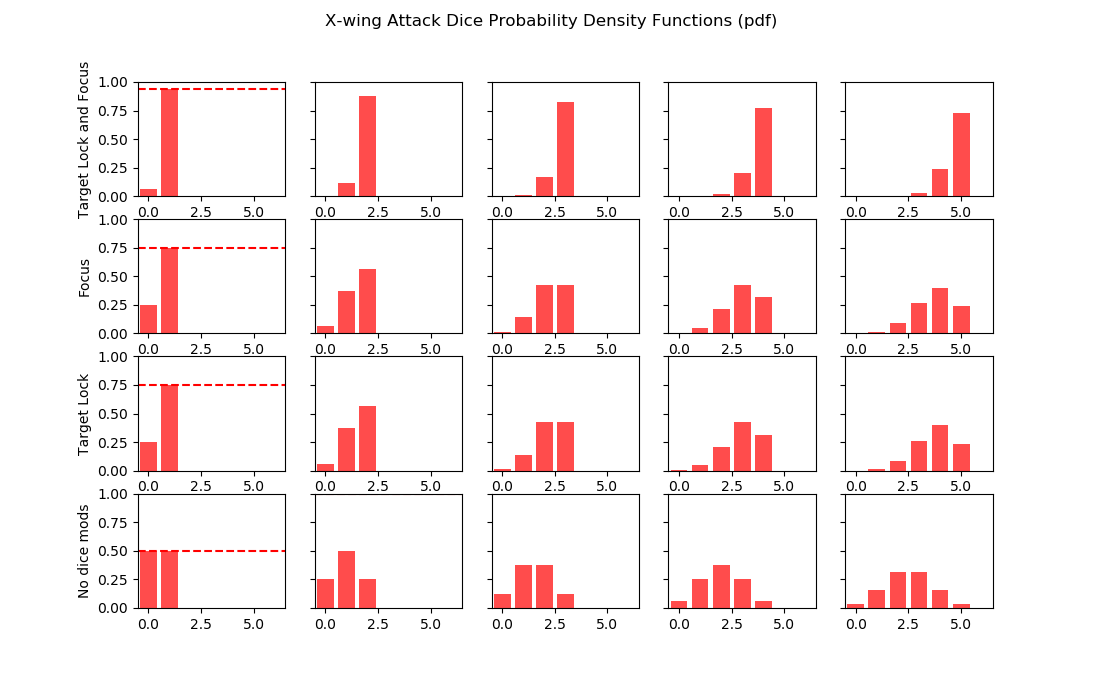
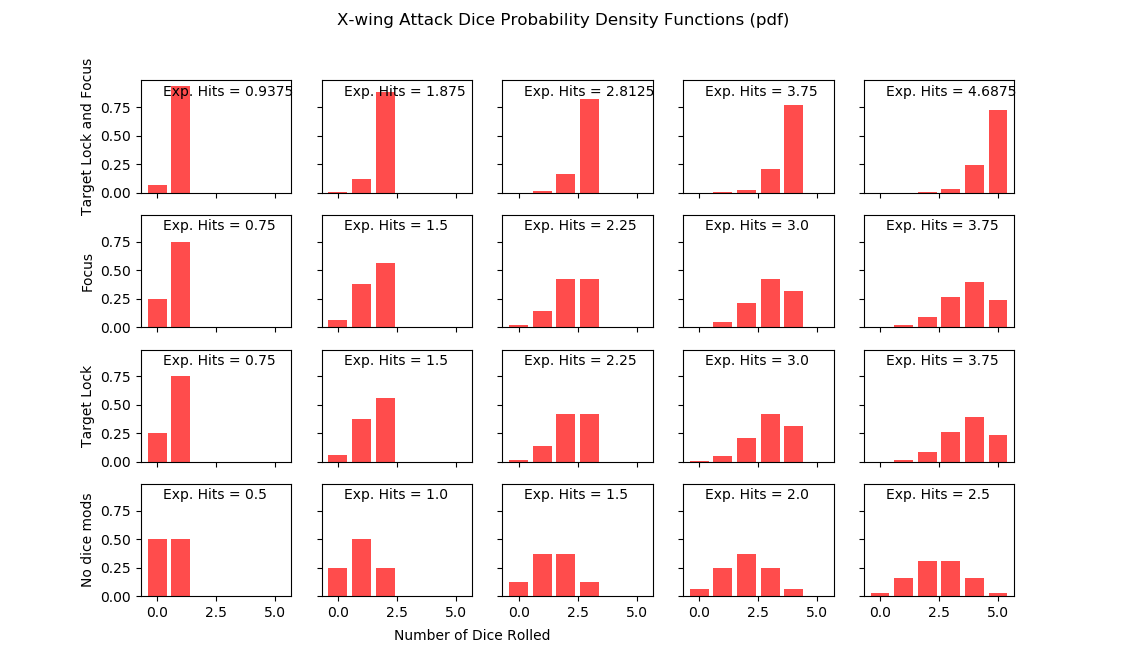
minor vis changes

Changed region(s): [[0.0617, 0.0896, 0.9248, 0.9552], [0.3083, 0.0, 0.709, 0.0597], [0.2774, 0.597, 0.4007, 0.7463]]

diff --git a/Dice.py b/Dice.py
@@ -265,12 +265,15 @@ def Def_P(M, focus = False, num_evade = 0):
         Def_EV = PE[0,i]*(m-i) + Def_EV
     return PE[0,:], Def_EV
 
-fig, axes = plt.subplots(4, 5, sharey=True)
+fig, axes = plt.subplots(4, 5, sharey=True, sharex=True)
 fig.suptitle('X-wing Attack Dice Probability Density Functions (pdf)')
 axes[0,0].set_ylabel('Target Lock and Focus')
 axes[1,0].set_ylabel('Focus')
 axes[2,0].set_ylabel('Target Lock')
 axes[3,0].set_ylabel('No dice mods')
+axes.set_ylim(-0, 1)
+axes.set_xlim(-0.5,6.5)
+fig.text(0.35, 0.05, 'Number of Dice Rolled', va='center', rotation='horizontal')
 
 i = 0
 for f in (True, False):   
@@ -280,11 +283,8 @@ for f in (True, False):
             PH, Atk_EV = Atk_P(M, focus= f, target_lock= tl)
             print ('Number of red dice =', M, ', Focus = ', f, ', Target Lock = ', tl, '\n', 'PH = ', PH, '. Expected number of hits = ', Atk_EV)
             axes[i, j].bar(np.arange(len(PH)-1, -1, -1), PH, color = 'red', alpha = 0.7)
-            axes[i,j].set_ylim(-0, 1)
-            axes[i,j].set_xlim(-0.5,6.5)
-            axes[i,j].hlines(Atk_EV, -0.5, 6.5, color = 'r', linestyle = '--')
+            s = "Exp. Hits = " + str(Atk_EV)
+            axes[i,j].text(0.25, 0.85, s, color = 'black')
         i = i + 1
-
-
 
 plt.show()
